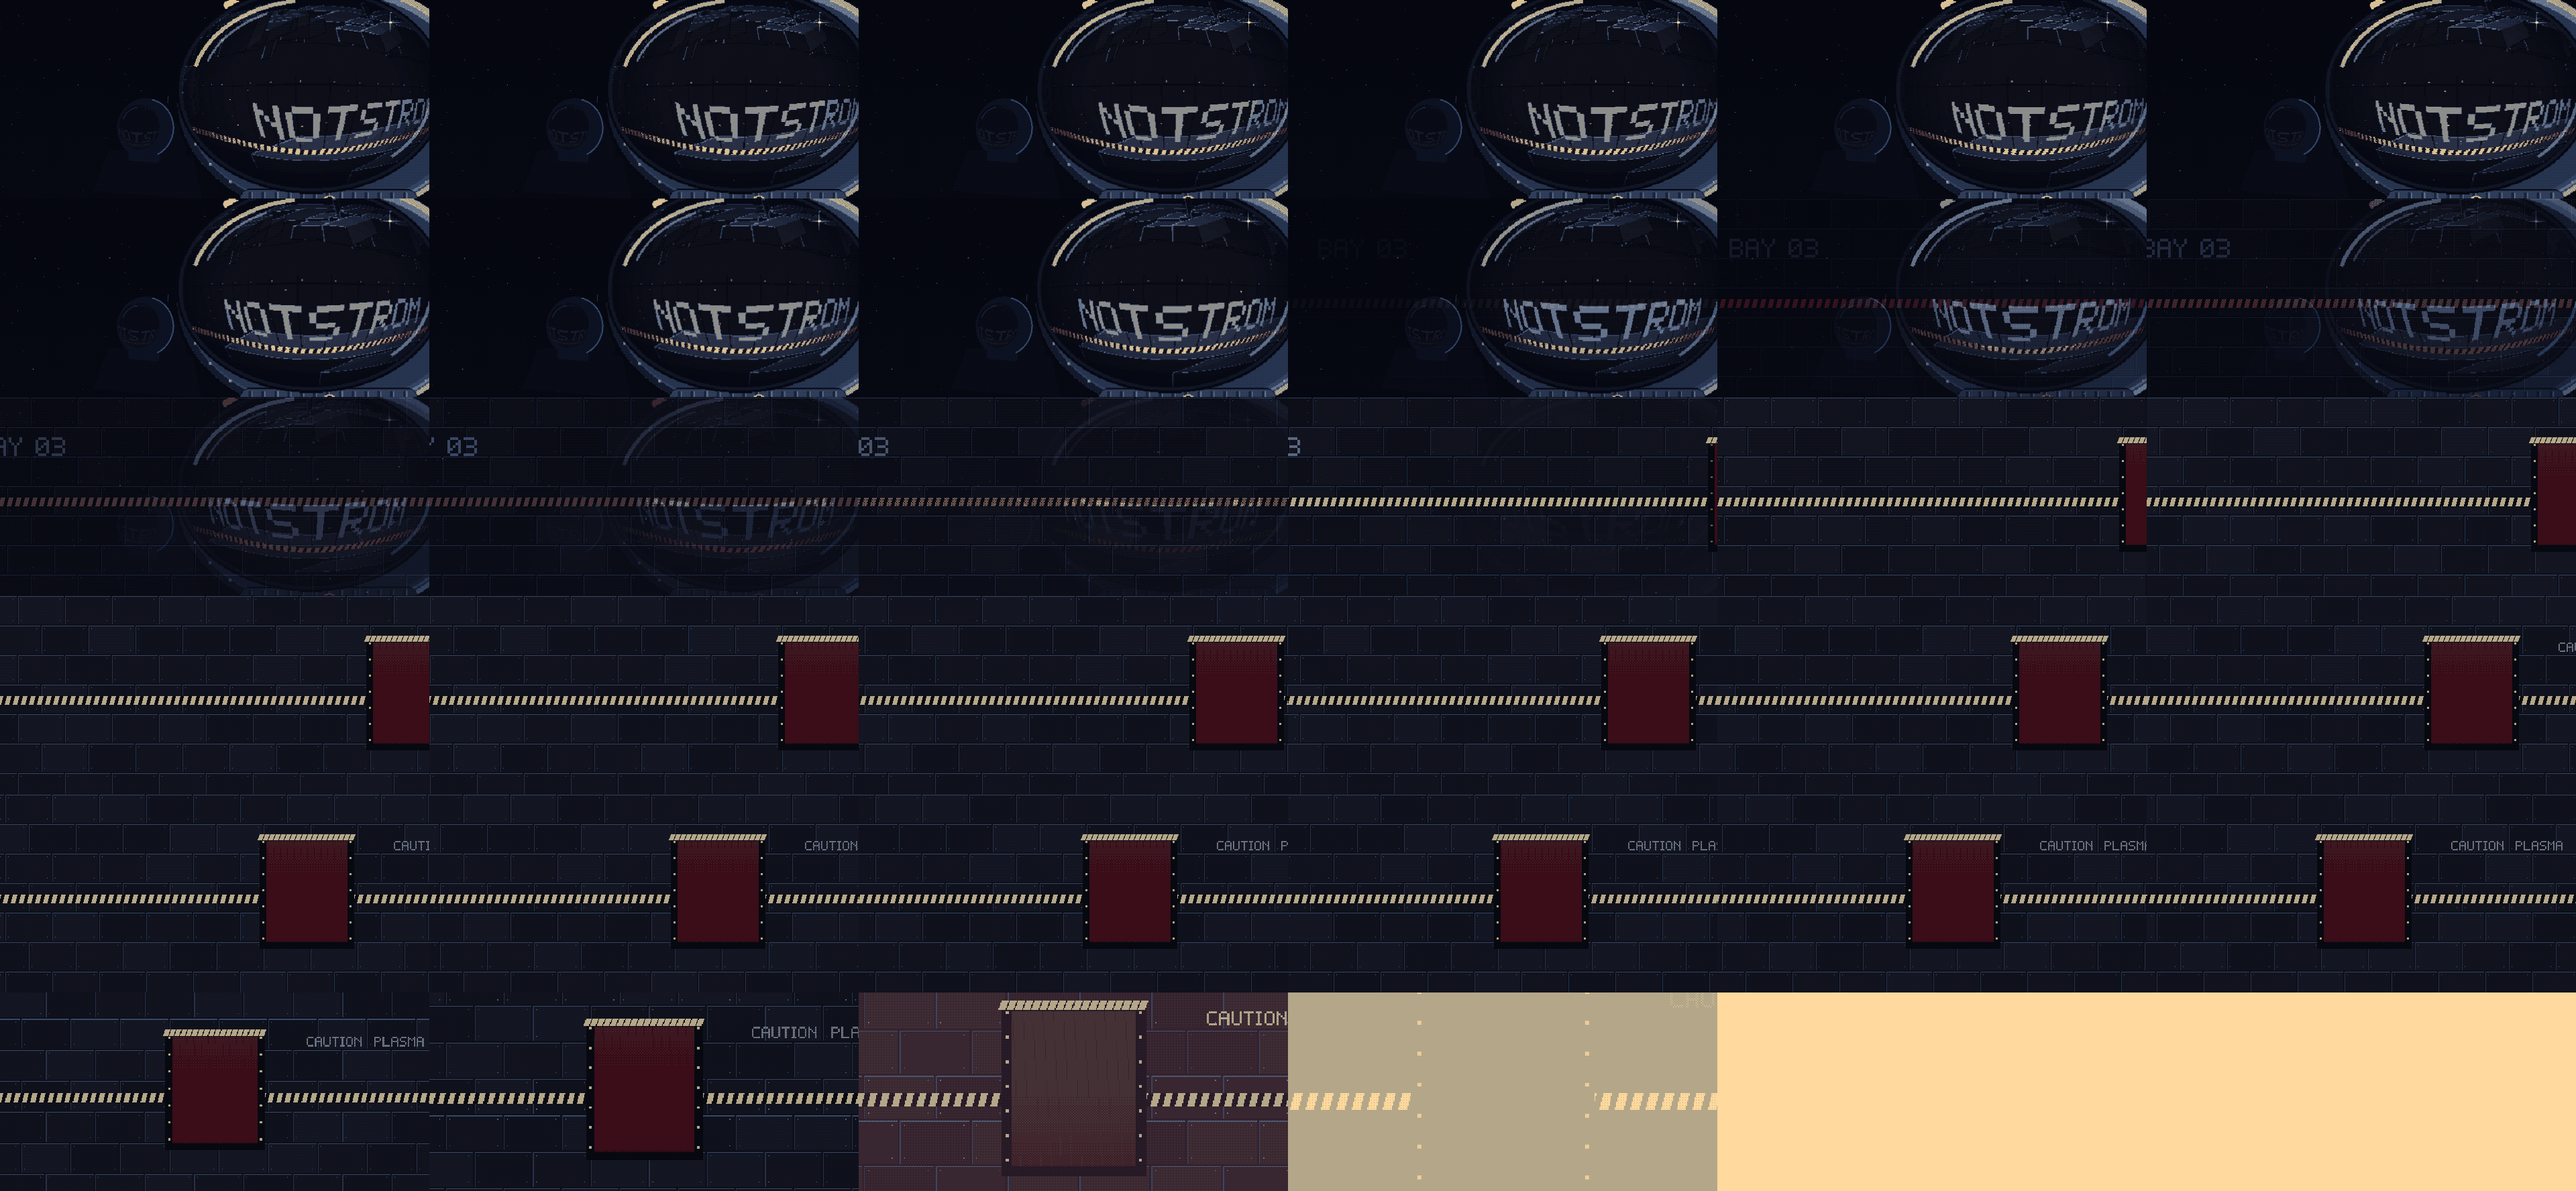
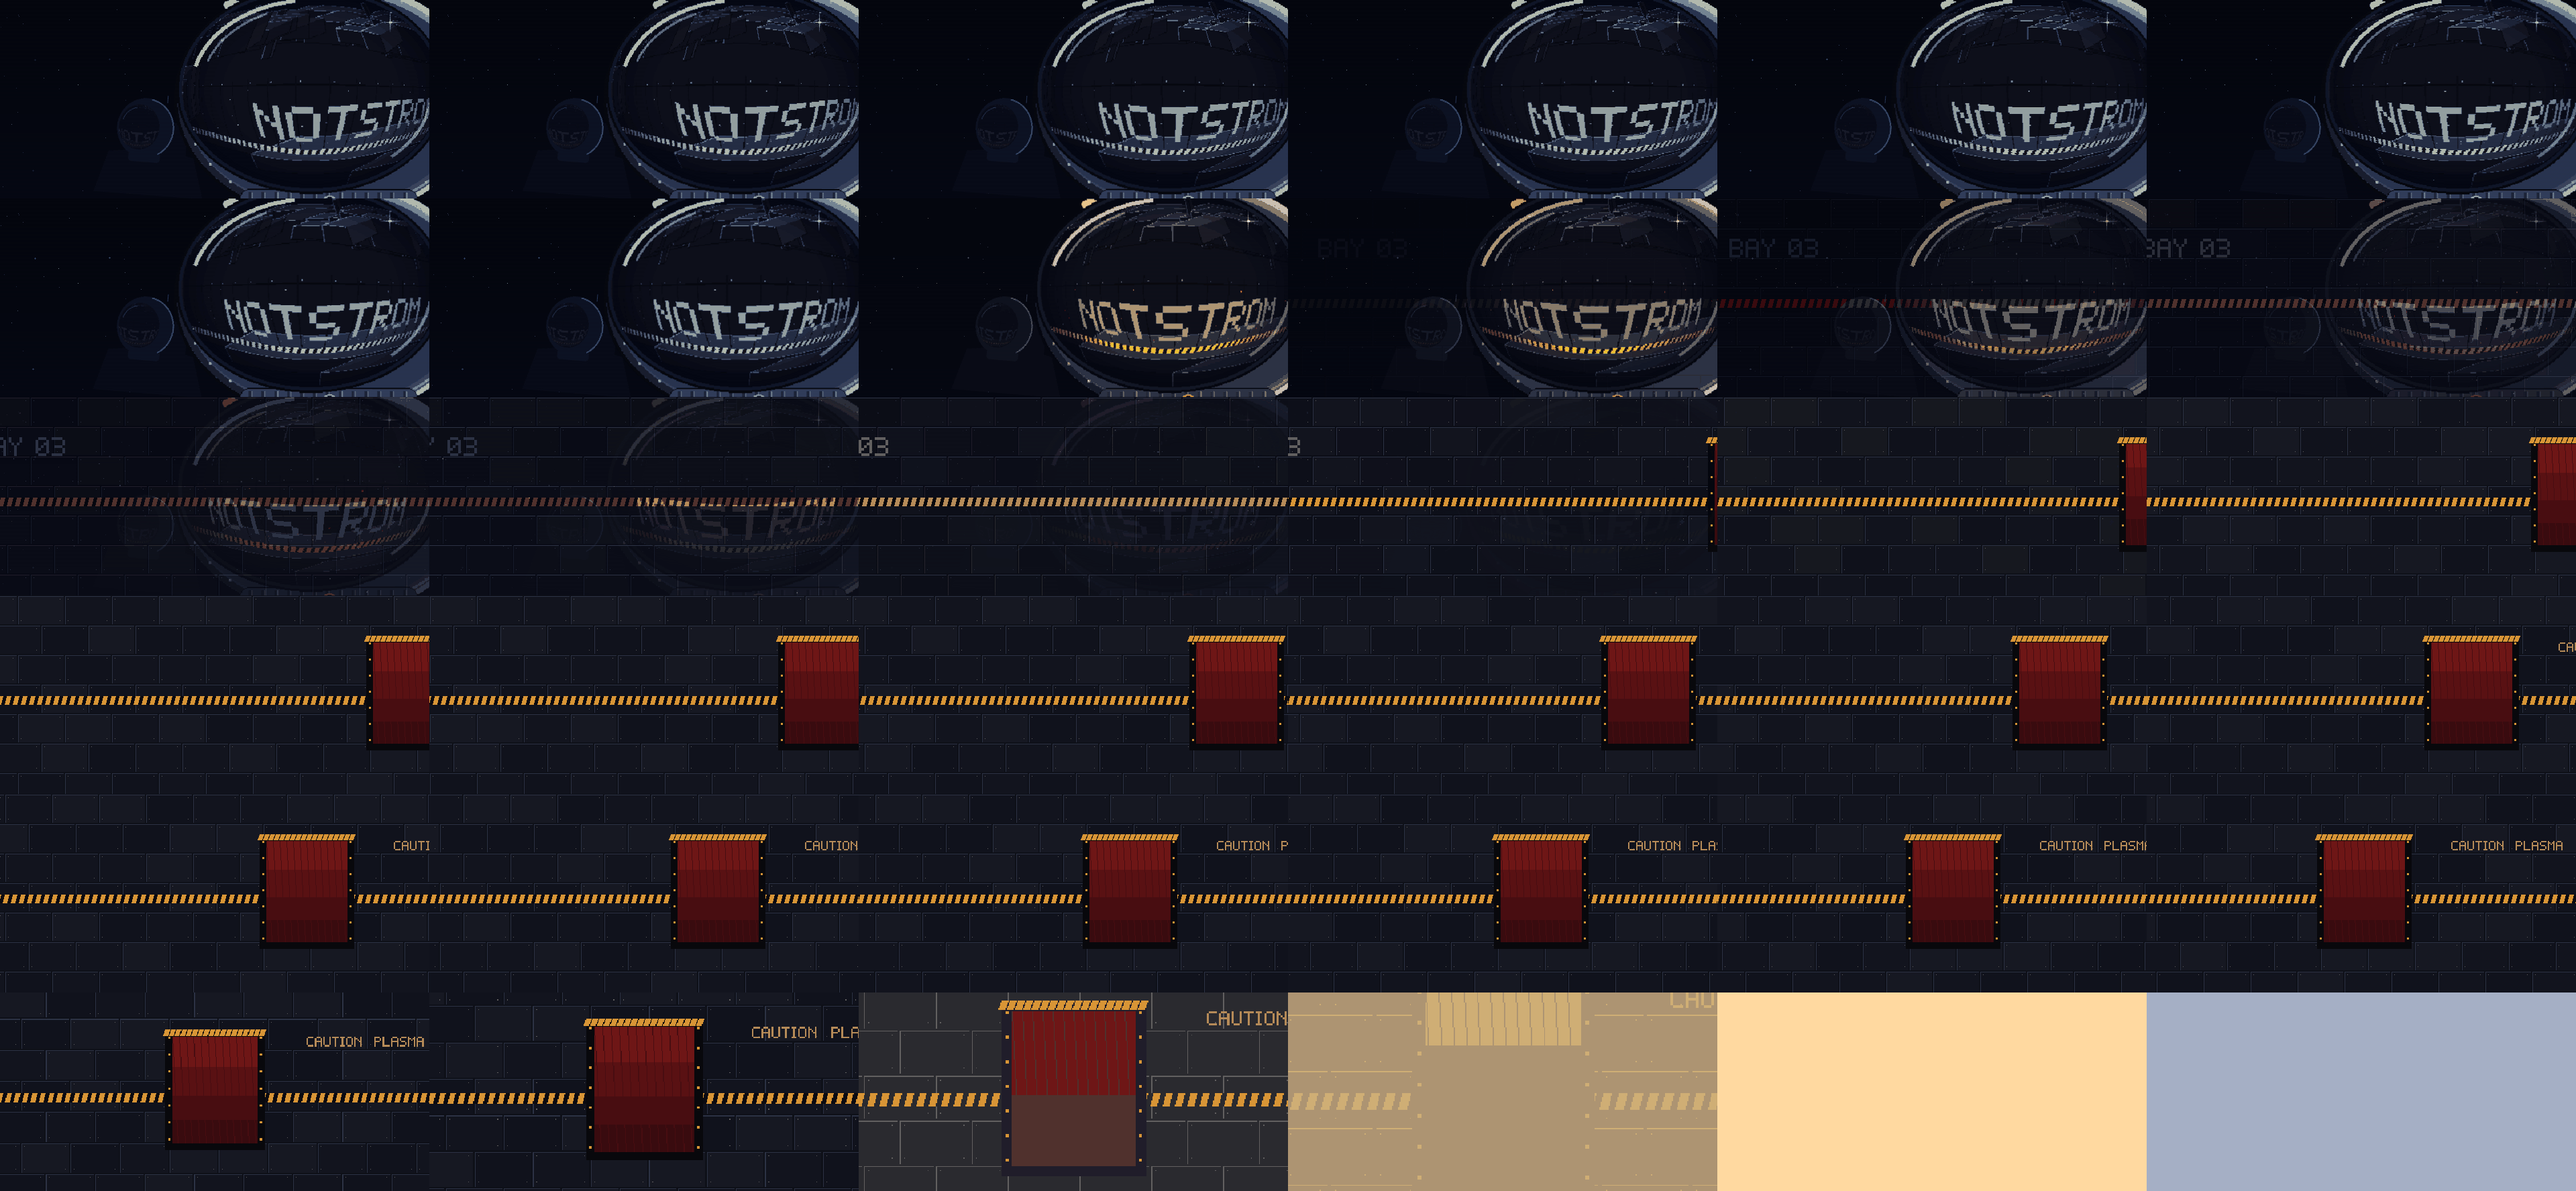
Give every scene of the film its own palette and drop the dither
The dither pattern made the dark parts grainy and the one palette lost the yellow and the red; the sheets now have 112, 56 and 56 colours for the planet, the visor and the hull.

Claude-Session: https://claude.ai/code/session_01Rn1Tt7X9tQdJ1krB9aWBpp

diff --git a/apps/web/src/intro-film.ts b/apps/web/src/intro-film.ts
@@ -17,7 +17,7 @@ export const FILM = {
     { file: "notstrom-2.png", frames: 35 },
   ],
   /** The colour of the last picture, which the flash fades out from into the next screen. */
-  flashColor: "#fadda7",
+  flashColor: "#ffd9a0",
 } as const;
 
 export const FILM_DURATION_MS = (FILM.frames / FILM.fps) * 1000;

diff --git a/docs/design/intro/tools/pack_sheets.py b/docs/design/intro/tools/pack_sheets.py
@@ -2,8 +2,9 @@
 
 python3 docs/design/intro/tools/pack_sheets.py <frames-dir> <out-dir>
 
-All frames share one palette of 64 colours (median cut over the whole film), and the colours are chosen with a 4 x 4 ordered
-dither, so that a cross-fade or a glow turns into the regular pixel pattern of old games instead of a smear of new colours.
+Every scene of the film has a palette of its own (median cut over the frames of the scene), and its frames are mapped to the nearest
+colour with no dither: a dither pattern turned the dark, smooth parts of the film into grain. The palettes of the scenes follow one
+another in the one palette of the sheets (at most 256 colours); the picture stays flat with clear edges, like the title screen.
 The frames are laid out row by row in sheets of COLUMNS x ROWS frames, small enough for the texture limits of a phone.
 """
 import glob
@@ -14,27 +15,34 @@ import numpy as np
 from PIL import Image
 from scipy.spatial import cKDTree
 
-COLORS = 64
 COLUMNS, ROWS = 6, 10
-BAYER = np.array([[0, 8, 2, 10], [12, 4, 14, 6], [3, 11, 1, 9], [15, 7, 13, 5]], dtype=np.float32) / 16.0 - 0.5
-DITHER = 20.0  # colour levels of the dither pattern; the palette steps are about this far apart
+# The scenes by the number of their first frame (frame 0 is the light ring at the end of the hyperspace): the planet and the far
+# Notstrom, the astronaut's visor (the cross-fade into the hull belongs to the hull), the hull and the flash. The planet has the
+# most colours: its fine steps band as soon as there are too few.
+SCENES = [("planet and far Notstrom", 0, 112), ("visor", 31, 56), ("hull and flash", 68, 56)]
 
 frames_dir, out_dir = sys.argv[1], sys.argv[2]
 paths = sorted(glob.glob(f"{frames_dir}/f*.png"))
 frames = [np.asarray(Image.open(path).convert("RGB")) for path in paths]
 height, width, _ = frames[0].shape
 
-sample = np.concatenate([frame[::2, ::2] for frame in frames[::2]], axis=0)
-sample_image = Image.fromarray(sample)
-quantized = sample_image.quantize(colors=COLORS, method=Image.Quantize.MEDIANCUT, dither=Image.Dither.NONE)
-palette = np.array(quantized.getpalette()[: COLORS * 3], dtype=np.float32).reshape(-1, 3)
-tree = cKDTree(palette)
-pattern = np.tile(BAYER, (height // 4 + 1, width // 4 + 1))[:height, :width, None] * DITHER
-
-indexed = []
-for frame in frames:
-    _, nearest = tree.query((frame.astype(np.float32) + pattern).reshape(-1, 3))
-    indexed.append(nearest.reshape(height, width).astype(np.uint8))
+palette_parts = []
+indexed = [np.zeros((height, width), dtype=np.uint8)] * len(frames)
+offset = 0
+for number, (name, first, colors) in enumerate(SCENES):
+    last = SCENES[number + 1][1] if number + 1 < len(SCENES) else len(frames)
+    sample = np.concatenate([frame[::2, ::2] for frame in frames[first:last]], axis=0)
+    quantized = Image.fromarray(sample).quantize(colors=colors, method=Image.Quantize.MEDIANCUT, dither=Image.Dither.NONE)
+    part = np.array(quantized.getpalette()[: colors * 3], dtype=np.float32).reshape(-1, 3)
+    tree = cKDTree(part)
+    for index in range(first, last):
+        _, nearest = tree.query(frames[index].astype(np.float32).reshape(-1, 3))
+        indexed[index] = (nearest.reshape(height, width) + offset).astype(np.uint8)
+    palette_parts.append(part)
+    offset += len(part)
+    print(f"scene {name}: frames {first} to {last - 1}, {len(part)} colours", file=sys.stderr)
+palette = np.concatenate(palette_parts)
+assert len(palette) <= 256, "the scenes need more than 256 colours together"
 
 per_sheet = COLUMNS * ROWS
 sheets = []

diff --git a/docs/design/intro/README.md b/docs/design/intro/README.md
@@ -9,8 +9,9 @@ The first 1.17 s are not in the sheets: the real title screen is pulled towards 
 it, drawn live by CSS (`title-screen.css`, class `flying`). The sheets start where the light ring at the end of the hyperspace
 begins; the live part hands over to them by calling `onPlay` (`WHIP_MS` in `intro-film.ts`).
 
-The film is pixel art: 95 pictures of 640 x 296 pixels at 12 a second, one palette of 64 colours, cross-fades and glows
-turned into a 4 x 4 ordered dither. The app plays them from two sprite sheets (`apps/web/public/assets/intro/notstrom-*.png`,
+The film is pixel art: 95 pictures of 640 x 296 pixels at 12 a second, a palette for every scene (112, 56 and 56 colours,
+no dither: a dither pattern made the dark, smooth parts grainy; the colours of the first version were also too few and lost the
+yellow and red). The app plays them from two sprite sheets (`apps/web/public/assets/intro/notstrom-*.png`,
 6 pictures per row) with `NotstromIntro.tsx` and `intro-film.ts`.
 
 ## Making the sheets again
